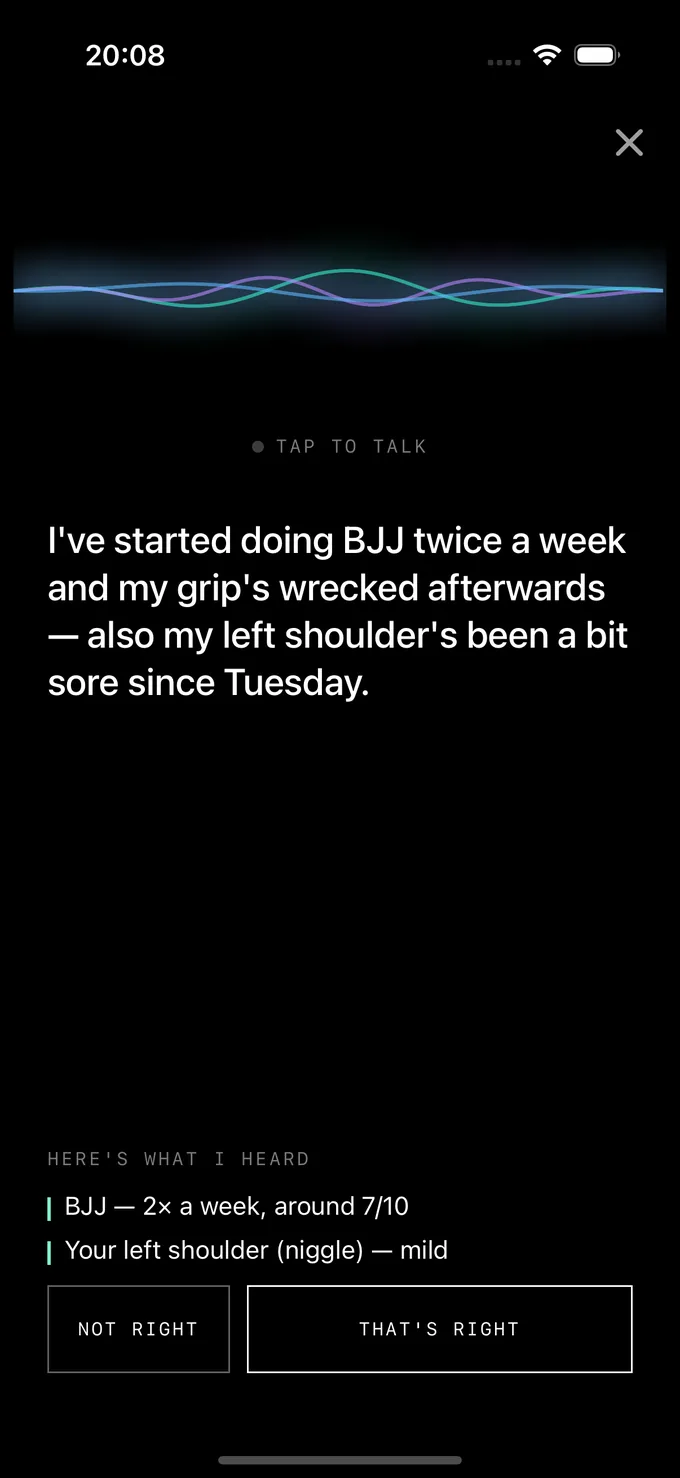
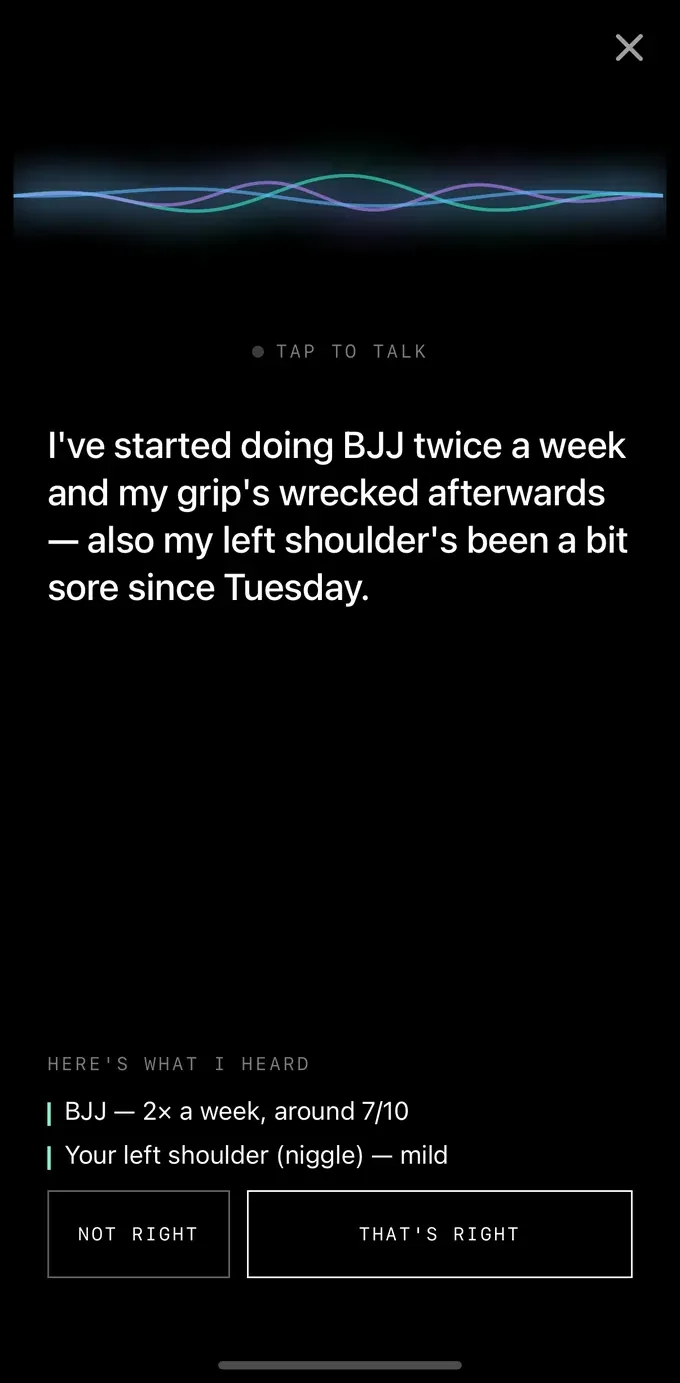
Apply Granite's world-class pass (agent findings, applied directly)
Same recovery pattern as IKARAO: the agent's file edits were lost to the
worktree deletion, but it left a replayable pipeline.py with every crop
measured, not eyeballed. Ran it against the real native app at
/Users/da/Prgrm and applied the results.

- Fig 01 (weekly review) was displayed at 0.81x the pixels a 2x screen
  needs -- a 680px source stretched past its native size. Replaced with
  a native 1320px capture from the shipping app's own screenshot set.
- Fig 02 had a real bug, not a quality issue: its caption said "the same
  screen at reading distance" while the image showed a crop of the
  Programme screen, not the Weekly Review above it -- an evidenced claim
  that was false. New crop is a measured detail of the deload card from
  the SAME review screen (borders found at x 48-1271, y 1156-1429), so
  the caption is now true, and it surfaces the real 40% rule directly.
- All seven remaining phone screenshots had their OS status bar cropped
  at one measured line (y=95 of 680x1478 -> 680x1383), which incidentally
  fixed two more real defects the agent traced to the same stale
  captures: a "◀ Frame" breadcrumb bleeding into two figures, and six
  different mismatched wall-clock times across one supposed session.
- Fixed a wrong count: the glyph sheet claimed "nine for the equipment"
  against ten actual icons in that category (recounted directly from
  the markup: Movement 12, Goal 5, Equipment 10, Level 3, Action 7,
  Coach 8 = 45).
[…]

diff --git a/work-granite.html b/work-granite.html
@@ -162,7 +162,7 @@ body.cursor-on,body.cursor-on a,body.cursor-on button,body.cursor-on summary{cur
 .colophon span{color:var(--paper);}
 .pfig{margin-top:clamp(40px,6vw,72px);background:var(--s1);border:1px solid var(--line);padding:clamp(24px,4vw,48px);display:grid;grid-template-columns:auto 1fr;gap:clamp(26px,5vw,60px);align-items:center;}
 @media(max-width:680px){.pfig{grid-template-columns:1fr;gap:26px;}}
-.device{position:relative;width:min(248px,58vw);aspect-ratio:1206/2622;border-radius:26px;overflow:hidden;background:#000;border:1px solid var(--line2);box-shadow:0 30px 80px -14px rgba(0,0,0,.62),0 6px 16px -4px rgba(0,0,0,.5);justify-self:start;}
+.device{position:relative;width:min(248px,58vw);aspect-ratio:680/1383;border-radius:26px;overflow:hidden;background:#000;border:1px solid var(--line2);box-shadow:0 30px 80px -14px rgba(0,0,0,.62),0 6px 16px -4px rgba(0,0,0,.5);justify-self:start;}
 .device::after{content:"";position:absolute;inset:0;border-radius:inherit;box-shadow:inset 0 1.5px 0 rgba(255,255,255,.16),inset 0 0 0 1px rgba(255,255,255,.045);pointer-events:none;z-index:3;}
 .device img{position:absolute;inset:0;width:100%;height:100%;object-fit:cover;display:block;}
 .device .d{opacity:0;transition:opacity .9s var(--e1);}
@@ -442,11 +442,11 @@ body.cursor-on,body.cursor-on a,body.cursor-on button,body.cursor-on summary{cur
     <div>
       <div class="block reveal"><p class="csintro">Granite is a strength coach for athletes whose sport isn&rsquo;t lifting, built to run entirely on your phone. Not a plan you follow, but an engine that reasons &mdash; writing your lifting around what you actually did to your body that week, and rewriting it as things change. It runs on fixed rules, not guesswork, and it stays on-device: every decision it makes can be traced, tested, and trusted. The engine has since outgrown the app &mdash; it now also runs <a href="work-kaido.html">Kaido Health</a>, a rehab platform for clinics with its own case study.</p></div>
       <div class="stakes reveal"><div class="slabel">The problem</div><div class="sl">A plan you cannot follow is worth nothing.</div><div class="rungs"><div class="rung"><b>The week moves</b><span class="fig">Life first</span><span>Work, sleep, travel, a niggle. The week you planned is rarely the week you get.</span></div><div class="rung"><b>So the plan breaks</b><span class="fig">Miss two</span><span>Fixed programmes have no answer for a missed session, so people improvise or stop.</span></div><div class="rung"><b>And nobody explains</b><span class="fig">No reason</span><span>Apps change your numbers without saying why, so there is nothing to trust or argue with.</span></div></div><p class="mech">One mechanism underneath all three: training adapts to the person, or the person quietly stops training.</p></div>
-      <div class="block reveal"><div class="pfig lead"><div class="device" style="aspect-ratio:1360/1740"><img src="media/shots/g-review.webp" alt="Granite — the weekly rewrite, with the reasoning shown" loading="lazy" width="1360" height="1740"></div><div class="pcap"><span class="pn">Fig. 01 &middot; Granite &middot; the weekly rewrite</span><span class="pd">Miss a few sessions, and it eases the week back &mdash; lighter, shorter, still complete &mdash; so you keep training instead of quitting, and don&rsquo;t get hurt trying to catch up to where the plan says you should be.</span></div></div><div class="pdetail reveal"><img src="media/shots/g-detail.webp" alt="Granite — a closer look: Barbell Row's old weight struck through, the new heavier weight next to it" loading="lazy" width="680" height="200"><div class="pcap"><span class="pn">Fig. 02 &middot; Granite &middot; the decision, closer</span><span class="pd">The same screen at reading distance. Every change is a decision you can trace back &mdash; the old number struck through, the new one next to it &mdash; because a coach you can&rsquo;t interrogate is just a spreadsheet.</span></div></div></div>
+      <div class="block reveal"><div class="pfig lead"><div class="device" style="aspect-ratio:1120/2276"><img src="media/shots/g-review.webp" alt="Granite — the weekly rewrite, with the reasoning shown, native resolution" loading="lazy" width="1120" height="2276"></div><div class="pcap"><span class="pn">Fig. 01 &middot; Granite &middot; the weekly rewrite</span><span class="pd">Miss a few sessions, and it eases the week back &mdash; lighter, shorter, still complete &mdash; so you keep training instead of quitting, and don&rsquo;t get hurt trying to catch up to where the plan says you should be.</span></div></div><div class="pdetail reveal"><img src="media/shots/g-detail.webp" alt="Granite — the deload card, closer: two missed sessions, volume cut 40%, loads held near working weight" loading="lazy" width="1260" height="392"><div class="pcap"><span class="pn">Fig. 02 &middot; Granite &middot; the decision, closer</span><span class="pd">The same review, closer. The card names the exact rule that fired &mdash; two sessions missed, volume down 40%, no top sets &mdash; because a coach you can&rsquo;t interrogate is just a spreadsheet.</span></div></div></div>
       <div class="aud reveal"><div class="who"><h3><span class="b">1</span>For the person training</h3><p>You do not need more discipline, you need a week that survives contact with your life. <em>Granite rewrites it and tells you what changed.</em></p></div><div class="who"><h3><span class="b">2</span>For the people who prescribe</h3><p>Coaches and clinicians cannot stand behind a black box that will not show its reasoning. <em>An engine that follows fixed rules can be inspected, tested and argued with &mdash; which is why it now also runs <a href="work-kaido.html">Kaido Health</a>, in clinics.</em></p></div></div>
-      <div class="block reveal"><h2>A coach, not a plan</h2><p>Most training apps hand you a fixed plan and hope you follow it. Granite reasons instead &mdash; taking your goals, the days you actually have, your injuries, and the load you carry off the platform &mdash; and builds a week that fits your real life.</p><p>When something changes it rewrites, and tells you why.</p><div class="pfig pair"><div class="duo"><figure><div class="device"><img src="media/shots/g-coach.webp" alt="Granite — telling the coach what changed this week" loading="lazy" width="680" height="1478"></div><figcaption>You say this</figcaption></figure><figure><div class="device"><img src="media/shots/g-week-after.webp" alt="Granite — the same week after the note: Face Pull swapped for Band Pull-apart, External Rotation added" loading="lazy" width="680" height="1478"></div><figcaption>The plan changes</figcaption></figure></div><div class="pcap"><span class="pn">Fig. 03 &middot; Granite &middot; say this, the plan changes</span><span class="pd">One sentence about a sore shoulder, and the week changes around it &mdash; the exercise that would aggravate it swapped out, protective work added in. You keep training through the niggle instead of stopping, and nothing has to be re-entered by hand.</span></div></div></div>
-      <div class="block reveal"><h2>The engine is the product</h2><p>Granite runs on fixed coaching rules, not AI guesswork. Every plan is consistent, every decision traceable, and the whole system testable against real coaching principles rather than hoping a black box got it right.</p><p>Accountable intelligence beats impressive intelligence when it&rsquo;s your body on the line.</p><div class="pfig pair"><div class="duo"><figure><div class="device"><img src="media/shots/g-session.webp" alt="Granite — a session in progress, with the reason for today and pain capture" loading="lazy" width="680" height="1478"></div><figcaption>Today&rsquo;s set</figcaption></figure><figure><div class="device"><img src="media/shots/g-programme-timeline.webp" alt="Granite — the 12-week periodised plan, build phases and deloads laid out on a timeline" loading="lazy" width="680" height="1478"></div><figcaption>The 12-week arc</figcaption></figure></div><div class="pcap"><span class="pn">Fig. 04 &middot; Granite &middot; reasoning at every timescale</span><span class="pd">Every session opens with why it exists today, inside a 12-week arc that builds and eases off on its own schedule &mdash; so you&rsquo;re always working toward something, instead of guessing what to do next or grinding until you break.</span></div></div></div>
-      <div class="block reveal"><h2>On-device by decision</h2><p>Running locally was the harder path, and it made the product sharper: an engine that can&rsquo;t lean on a server has to do its thinking right there, the instant you need it.</p><p>That constraint is the craft. Spotting a plateau, checking a week&rsquo;s volume against the evidence &mdash; analysis most apps would phone home for &mdash; happens instantly.</p><div class="pfig pair"><div class="duo"><figure><div class="device"><img src="media/shots/g-progress-insights.webp" alt="Granite — plateau detection: Face Pull flagged flat for a few sessions, with a reason and a fix" loading="lazy" width="680" height="1478"></div><figcaption>It notices a plateau</figcaption></figure><figure><div class="device"><img src="media/shots/g-progress-volume.webp" alt="Granite — weekly training volume per muscle group, checked against an evidence-based range" loading="lazy" width="680" height="1478"></div><figcaption>And checks the volume</figcaption></figure></div><div class="pcap"><span class="pn">Fig. 05 &middot; Granite &middot; reading the whole picture, on-device</span><span class="pd">It catches a plateau before you&rsquo;d notice it yourself, and makes sure no muscle group is quietly under-trained &mdash; so a stall gets fixed in week one, not month three of wondering why you&rsquo;ve stopped improving.</span></div></div></div>
+      <div class="block reveal"><h2>A coach, not a plan</h2><p>Most training apps hand you a fixed plan and hope you follow it. Granite reasons instead &mdash; taking your goals, the days you actually have, your injuries, and the load you carry off the platform &mdash; and builds a week that fits your real life.</p><p>When something changes it rewrites, and tells you why.</p><div class="pfig pair"><div class="duo"><figure><div class="device"><img src="media/shots/g-coach.webp" alt="Granite — telling the coach what changed this week" loading="lazy" width="680" height="1383"></div><figcaption>You say this</figcaption></figure><figure><div class="device"><img src="media/shots/g-week-after.webp" alt="Granite — the same week after the note: Face Pull swapped for Band Pull-apart, External Rotation added" loading="lazy" width="680" height="1383"></div><figcaption>The plan changes</figcaption></figure></div><div class="pcap"><span class="pn">Fig. 03 &middot; Granite &middot; say this, the plan changes</span><span class="pd">One sentence about a sore shoulder, and the week changes around it &mdash; the exercise that would aggravate it swapped out, protective work added in. You keep training through the niggle instead of stopping, and nothing has to be re-entered by hand.</span></div></div></div>
+      <div class="block reveal"><h2>The engine is the product</h2><p>Granite runs on fixed coaching rules, not AI guesswork. Every plan is consistent, every decision traceable, and the whole system testable against real coaching principles rather than hoping a black box got it right.</p><p>Accountable intelligence beats impressive intelligence when it&rsquo;s your body on the line.</p><div class="pfig pair"><div class="duo"><figure><div class="device"><img src="media/shots/g-session.webp" alt="Granite — a session in progress, with the reason for today and pain capture" loading="lazy" width="680" height="1383"></div><figcaption>Today&rsquo;s set</figcaption></figure><figure><div class="device"><img src="media/shots/g-programme-timeline.webp" alt="Granite — the 12-week periodised plan, build phases and deloads laid out on a timeline" loading="lazy" width="680" height="1383"></div><figcaption>The 12-week arc</figcaption></figure></div><div class="pcap"><span class="pn">Fig. 04 &middot; Granite &middot; reasoning at every timescale</span><span class="pd">Every session opens with why it exists today, inside a 12-week arc that builds and eases off on its own schedule &mdash; so you&rsquo;re always working toward something, instead of guessing what to do next or grinding until you break.</span></div></div></div>
+      <div class="block reveal"><h2>On-device by decision</h2><p>Running locally was the harder path, and it made the product sharper: an engine that can&rsquo;t lean on a server has to do its thinking right there, the instant you need it.</p><p>That constraint is the craft. Spotting a plateau, checking a week&rsquo;s volume against the evidence &mdash; analysis most apps would phone home for &mdash; happens instantly.</p><div class="pfig pair"><div class="duo"><figure><div class="device"><img src="media/shots/g-progress-insights.webp" alt="Granite — plateau detection: Face Pull flagged flat for a few sessions, with a reason and a fix" loading="lazy" width="680" height="1383"></div><figcaption>It notices a plateau</figcaption></figure><figure><div class="device"><img src="media/shots/g-progress-volume.webp" alt="Granite — weekly training volume per muscle group, checked against an evidence-based range" loading="lazy" width="680" height="1383"></div><figcaption>And checks the volume</figcaption></figure></div><div class="pcap"><span class="pn">Fig. 05 &middot; Granite &middot; reading the whole picture, on-device</span><span class="pd">It catches a plateau before you&rsquo;d notice it yourself, and makes sure no muscle group is quietly under-trained &mdash; so a stall gets fixed in week one, not month three of wondering why you&rsquo;ve stopped improving.</span></div></div></div>
       <div class="cfilm reveal">
       <div><span class="cfl">Art direction</span>
         <p class="cfyr">Made before the app existed.</p>
@@ -454,7 +454,7 @@ body.cursor-on,body.cursor-on a,body.cursor-on button,body.cursor-on summary{cur
       <div class="cfv"><video muted loop autoplay playsinline preload="none" aria-hidden="true"><source src="media/granite-concept.mp4" type="video/mp4"></video><span class="cfnote">Concept film &middot; not product footage</span></div>
     </div>
 
-    <div class="glyphsheet reveal"><div class="gcat"><span class="gcatlabel">Movement</span><div class="ggrid"><svg viewBox="0 0 72 72" class="glyph"><line x1="36" y1="54" x2="36" y2="14" class="gl-faint" stroke-dasharray="2,3"/><line x1="36" y1="54" x2="36" y2="32" class="gl-neon"/><circle cx="36" cy="32" r="2.6" class="gl-neon fill"/><line x1="16" y1="54" x2="56" y2="54" class="gl-fg"/></svg><svg viewBox="0 0 72 72" class="glyph"><line x1="26" y1="30" x2="26" y2="10" class="gl-faint" stroke-dasharray="2,3"/><line x1="26" y1="30" x2="52" y2="16" class="gl-neon"/><circle cx="52" cy="16" r="2.6" class="gl-neon fill"/><circle cx="26" cy="30" r="2" class="gl-fg fill"/><line x1="26" y1="30" x2="26" y2="54" class="gl-fg"/><line x1="16" y1="54" x2="56" y2="54" class="gl-fg"/></svg><svg viewBox="0 0 72 72" class="glyph"><rect x="10" y="32" width="8" height="8" class="gl-fg fill"/><line x1="14" y1="36" x2="34" y2="36" class="gl-faint"/><line x1="34" y1="36" x2="60" y2="36" class="gl-neon"/><circle cx="60" cy="36" r="2.6" class="gl-neon fill"/></svg><svg viewBox="0 0 72 72" class="glyph"><rect x="32" y="54" width="8" height="8" class="gl-fg fill"/><line x1="36" y1="58" x2="36" y2="38" class="gl-faint"/><line x1="36" y1="38" x2="36" y2="12" class="gl-neon"/><circle cx="36" cy="12" r="2.6" class="gl-neon fill"/></svg><svg viewBox="0 0 72 72" class="glyph"><rect x="54" y="32" width="8" height="8" class="gl-fg fill"/><line x1="38" y1="36" x2="12" y2="36" class="gl-faint"/><line x1="58" y1="36" x2="38" y2="36" class="gl-neon"/><circle cx="12" cy="36" r="2.2" class="gl-faint fill"/></svg><svg viewBox="0 0 72 72" class="glyph"><rect x="32" y="10" width="8" height="8" class="gl-fg fill"/><line x1="36" y1="34" x2="36" y2="58" class="gl-faint"/><line x1="36" y1="14" x2="36" y2="34" class="gl-neon"/><circle cx="36" cy="58" r="2.2" class="gl-faint fill"/></svg><svg viewBox="0 0 72 72" class="glyph"><line x1="20" y1="54" x2="20" y2="18" class="gl-faint" stroke-dasharray="2,3"/><line x1="46" y1="54" x2="46" y2="30" class="gl-neon"/><circle cx="46" cy="30" r="2.6" class="gl-neon fill"/><line x1="12" y1="54" x2="58" y2="54" class="gl-fg"/></svg><svg viewBox="0 0 72 72" class="glyph"><line x1="36" y1="26" x2="36" y2="54" class="gl-faint" stroke-dasharray="2,3"/><line x1="36" y1="26" x2="16" y2="44" class="gl-neon"/><circle cx="16" cy="44" r="2.6" class="gl-neon fill"/><circle cx="36" cy="26" r="2" class="gl-fg fill"/></svg><svg viewBox="0 0 72 72" class="glyph"><line x1="36" y1="26" x2="16" y2="44" class="gl-faint" stroke-dasharray="2,3"/><line x1="36" y1="26" x2="40" y2="54" class="gl-neon"/><circle cx="40" cy="54" r="2.6" class="gl-neon fill"/><circle cx="36" cy="26" r="2" class="gl-fg fill"/></svg><svg viewBox="0 0 72 72" class="glyph"><line x1="36" y1="54" x2="36" y2="20" class="gl-fg"/><line x1="16" y1="54" x2="56" y2="54" class="gl-faint" stroke-dasharray="2,3"/><line x1="16" y1="44" x2="56" y2="44" class="gl-neon"/><circle cx="56" cy="44" r="2.6" class="gl-neon fill"/></svg><svg viewBox="0 0 72 72" class="glyph"><line x1="36" y1="12" x2="36" y2="60" class="gl-neon"/><line x1="14" y1="30" x2="30" y2="34" class="gl-faint"/><line x1="58" y1="42" x2="42" y2="38" class="gl-faint"/><circle cx="36" cy="12" r="2" class="gl-fg fill"/></svg><svg viewBox="0 0 72 72" class="glyph"><line x1="30" y1="26" x2="30" y2="48" class="gl-fg"/><line x1="30" y1="26" x2="46" y2="22" class="gl-faint" stroke-dasharray="2,3"/><line x1="30" y1="26" x2="48" y2="34" class="gl-neon"/><circle cx="48" cy="34" r="2.4" class="gl-neon fill"/><circle cx="30" cy="26" r="2" class="gl-fg fill"/></svg></div></div><div class="gcat"><span class="gcatlabel">Goal</span><div class="ggrid"><svg viewBox="0 0 72 72" class="glyph"><line x1="36" y1="54" x2="36" y2="34" class="gl-faint" stroke-dasharray="2,3"/><line x1="36" y1="54" x2="36" y2="14" class="gl-neon"/><circle cx="36" cy="14" r="2.6" class="gl-neon fill"/><line x1="16" y1="54" x2="56" y2="54" class="gl-fg"/></svg><svg viewBox="0 0 72 72" class="glyph"><line x1="36" y1="36" x2="56.0" y2="36.0" class="gl-neon"/><line x1="36" y1="36" x2="46.0" y2="53.32" class="gl-neon"/><line x1="36" y1="36" x2="26.0" y2="53.32" class="gl-neon"/><line x1="36" y1="36" x2="16.0" y2="36.0" class="gl-neon"/><line x1="36" y1="36" x2="26.0" y2="18.68" class="gl-neon"/><line x1="36" y1="36" x2="46.0" y2="18.68" class="gl-neon"/><circle cx="36" cy="36" r="3" class="gl-neon fill"/></svg><svg viewBox="0 0 72 72" class="glyph"><circle cx="20" cy="44" r="2" class="gl-faint fill"/><circle cx="46" cy="32" r="10" class="gl-neon fill"/></svg><svg viewBox="0 0 72 72" class="glyph"><polyline points="36,58 30,38 36,14" class="gl-neon"/><line x1="52" y1="30" x2="32" y2="38" class="gl-faint"/><circle cx="36" cy="14" r="2.4" class="gl-neon fill"/><circle cx="36" cy="58" r="2" class="gl-fg fill"/></svg><svg viewBox="0 0 72 72" class="glyph"><polyline points="8,40 18,40 24,26 30,50 36,30 42,46 48,34 54,40 64,40" class="gl-neon"/><circle cx="64" cy="40" r="2.4" class="gl-neon fill"/></svg></div></div><div class="gcat"><span class="gcatlabel">Equipment</span><div class="ggrid"><svg viewBox="0 0 72 72" class="glyph"><circle cx="20.0" cy="26.0" r="3" class="gl-faint fill"/><circle cx="36.0" cy="26.0" r="3" class="gl-neon fill"/><circle cx="52.0" cy="26.0" r="3" class="gl-faint fill"/><circle cx="20.0" cy="46.0" r="3" class="gl-faint fill"/><circle cx="36.0" cy="46.0" r="3" class="gl-faint fill"/><circle cx="52.0" cy="46.0" r="3" class="gl-faint fill"/></svg><svg viewBox="0 0 72 72" class="glyph"><line x1="10" y1="36" x2="62" y2="36" class="gl-neon"/><circle cx="10" cy="36" r="3.2" class="gl-neon fill"/><circle cx="62" cy="36" r="3.2" class="gl-neon fill"/></svg><svg viewBox="0 0 72 72" class="glyph"><line x1="26" y1="36" x2="46" y2="36" class="gl-neon"/><circle cx="22" cy="36" r="6" class="gl-neon fill"/><circle cx="50" cy="36" r="6" class="gl-neon fill"/></svg><svg viewBox="0 0 72 72" class="glyph"><rect x="16" y="20" width="24" height="24" class="gl-faint stroke-only"/><rect x="30" y="34" width="24" height="24" class="gl-neon stroke-only"/></svg><svg viewBox="0 0 72 72" class="glyph"><circle cx="36" cy="42" r="10" class="gl-neon stroke-only"/><circle cx="36" cy="24" r="6" class="gl-fg stroke-only"/></svg><svg viewBox="0 0 72 72" class="glyph"><line x1="14" y1="52" x2="38" y2="52" class="gl-neon"/><line x1="38" y1="52" x2="36" y2="40" class="gl-neon"/><line x1="36" y1="40" x2="58" y2="22" class="gl-fg"/><line x1="18" y1="52" x2="18" y2="56" class="gl-faint"/></svg><svg viewBox="0 0 72 72" class="glyph"><polyline points="10,36 12.17,39.06 14.33,41.66 16.5,43.39 18.67,44.0 20.83,43.39 23.0,41.66 25.17,39.06 27.33,36.0 29.5,32.94 31.67,30.34 33.83,28.61 36.0,28.0 38.17,28.61 40.33,30.34 42.5,32.94 44.67,36.0 46.83,39.06 49.0,41.66 51.17,43.39 53.33,44.0 55.5,43.39 57.67,41.66 59.83,39.06 62.0,36.0" class="gl-neon"/></svg><svg viewBox="0 0 72 72" class="glyph"><line x1="14" y1="18" x2="58" y2="18" class="gl-neon"/><line x1="36" y1="18" x2="36" y2="40" class="gl-fg"/><circle cx="36" cy="46" r="4" class="gl-faint fill"/></svg><svg viewBox="0 0 72 72" class="glyph"><circle cx="36" cy="16" r="4" class="gl-neon fill"/><line x1="36" y1="22" x2="36" y2="42" class="gl-neon"/><line x1="36" y1="42" x2="26" y2="58" class="gl-neon"/><line x1="36" y1="42" x2="46" y2="58" class="gl-neon"/></svg><svg viewBox="0 0 72 72" class="glyph"><line x1="20" y1="14" x2="52" y2="14" class="gl-fg"/><line x1="28.0" y1="14" x2="28.0" y2="32" class="gl-faint"/><circle cx="28.0" cy="40" r="5" class="gl-neon stroke-only"/><line x1="44.0" y1="14" x2="44.0" y2="32" class="gl-faint"/><circle cx="44.0" cy="40" r="5" class="gl-neon stroke-only"/></svg></div></div><div class="gcat"><span class="gcatlabel">Level</span><div class="ggrid"><svg viewBox="0 0 72 72" class="glyph"><line x1="26.0" y1="54" x2="26.0" y2="38.0" class="gl-neon"/><line x1="38.0" y1="54" x2="38.0" y2="28.0" class="gl-faint"/><line x1="50.0" y1="54" x2="50.0" y2="16.0" class="gl-faint"/><line x1="16" y1="54" x2="56" y2="54" class="gl-fg"/></svg><svg viewBox="0 0 72 72" class="glyph"><line x1="26.0" y1="54" x2="26.0" y2="38.0" class="gl-neon"/><line x1="38.0" y1="54" x2="38.0" y2="28.0" class="gl-neon"/><line x1="50.0" y1="54" x2="50.0" y2="16.0" class="gl-faint"/><line x1="16" y1="54" x2="56" y2="54" class="gl-fg"/></svg><svg viewBox="0 0 72 72" class="glyph"><line x1="26.0" y1="54" x2="26.0" y2="38.0" class="gl-neon"/><line x1="38.0" y1="54" x2="38.0" y2="28.0" class="gl-neon"/><line x1="50.0" y1="54" x2="50.0" y2="16.0" class="gl-neon"/><line x1="16" y1="54" x2="56" y2="54" class="gl-fg"/></svg></div></div><div class="gcat"><span class="gcatlabel">Action</span><div class="ggrid"><svg viewBox="0 0 72 72" class="glyph"><circle cx="36" cy="36" r="18" class="gl-fg stroke-only"/><line x1="36" y1="36" x2="36" y2="22" class="gl-neon"/><line x1="36" y1="36" x2="46" y2="36" class="gl-fg"/></svg><svg viewBox="0 0 72 72" class="glyph"><line x1="23.0" y1="22.0" x2="49.0" y2="22.0" class="gl-neon"/><line x1="27.0" y1="34.0" x2="45.0" y2="34.0" class="gl-faint"/><line x1="31.0" y1="46.0" x2="41.0" y2="46.0" class="gl-faint"/></svg><svg viewBox="0 0 72 72" class="glyph"><circle cx="36" cy="20" r="3" class="gl-neon fill"/><line x1="36" y1="30" x2="36" y2="52" class="gl-fg"/></svg><svg viewBox="0 0 72 72" class="glyph"><line x1="24.0" y1="14.0" x2="14.0" y2="14.0" class="gl-neon"/><line x1="14.0" y1="14.0" x2="14.0" y2="24.0" class="gl-neon"/><line x1="48.0" y1="14.0" x2="58.0" y2="14.0" class="gl-neon"/><line x1="58.0" y1="14.0" x2="58.0" y2="24.0" class="gl-neon"/><line x1="24.0" y1="58.0" x2="14.0" y2="58.0" class="gl-neon"/><line x1="14.0" y1="58.0" x2="14.0" y2="48.0" class="gl-neon"/><line x1="48.0" y1="58.0" x2="58.0" y2="58.0" class="gl-neon"/><line x1="58.0" y1="58.0" x2="58.0" y2="48.0" class="gl-neon"/></svg><svg viewBox="0 0 72 72" class="glyph"><line x1="18" y1="26" x2="54" y2="26" class="gl-neon"/><polyline points="48,20 54,26 48,32" class="gl-neon"/><line x1="54" y1="46" x2="18" y2="46" class="gl-fg"/><polyline points="24,40 18,46 24,52" class="gl-fg"/></svg><svg viewBox="0 0 72 72" class="glyph"><line x1="22" y1="22" x2="50" y2="50" class="gl-neon"/><line x1="50" y1="22" x2="22" y2="50" class="gl-neon"/></svg><svg viewBox="0 0 72 72" class="glyph"><path d="M 48.26 25.72 A 16 16 0 1 1 23.74 25.72" class="gl-neon stroke-only-path"/><polyline points="30,18 20,20 24,30" class="gl-neon"/></svg></div></div><div class="gcat"><span class="gcatlabel">Coach</span><div class="ggrid"><svg viewBox="0 0 72 72" class="glyph"><line x1="8.0" y1="52" x2="8.0" y2="42" class="gl-faint"/><line x1="13.09" y1="52" x2="13.09" y2="37" class="gl-faint"/><line x1="18.18" y1="52" x2="18.18" y2="32" class="gl-faint"/><line x1="23.27" y1="52" x2="23.27" y2="44" class="gl-faint"/><line x1="28.36" y1="52" x2="28.36" y2="38" class="gl-faint"/><line x1="33.45" y1="52" x2="33.45" y2="32" class="gl-faint"/><line x1="38.55" y1="52" x2="38.55" y2="18" class="gl-neon"/><line x1="38.55" y1="24" x2="38.55" y2="20" class="gl-faint" stroke-dasharray="1.5,2"/><line x1="43.64" y1="52" x2="43.64" y2="40" class="gl-faint"/><line x1="48.73" y1="52" x2="48.73" y2="34" class="gl-faint"/><line x1="53.82" y1="52" x2="53.82" y2="28" class="gl-faint"/><line x1="58.91" y1="52" x2="58.91" y2="22" class="gl-faint"/><line x1="64.0" y1="52" x2="64.0" y2="38" class="gl-faint"/><line x1="6" y1="54" x2="66" y2="54" class="gl-fg"/></svg><svg viewBox="0 0 72 72" class="glyph"><line x1="10" y1="18.0" x2="44" y2="36" class="gl-faint"/><circle cx="10" cy="18.0" r="2.2" class="gl-faint fill"/><line x1="10" y1="36.0" x2="44" y2="36" class="gl-fg"/><circle cx="10" cy="36.0" r="2.2" class="gl-fg fill"/><line x1="10" y1="54.0" x2="44" y2="36" class="gl-faint"/><circle cx="10" cy="54.0" r="2.2" class="gl-faint fill"/><line x1="44" y1="36" x2="64" y2="36" class="gl-neon"/><rect x="40" y="32" width="8" height="8" class="gl-neon fill"/></svg><svg viewBox="0 0 72 72" class="glyph"><line x1="22" y1="10" x2="22" y2="60" class="gl-fg"/><line x1="22" y1="20.0" x2="46" y2="20.0" class="gl-faint"/><circle cx="22" cy="20.0" r="2" class="gl-fg fill"/><circle cx="50" cy="20.0" r="2.4" class="gl-faint fill"/><line x1="22" y1="34.0" x2="46" y2="34.0" class="gl-neon"/><circle cx="22" cy="34.0" r="2" class="gl-fg fill"/><circle cx="50" cy="34.0" r="2.4" class="gl-neon fill"/><line x1="22" y1="48.0" x2="46" y2="48.0" class="gl-faint"/><circle cx="22" cy="48.0" r="2" class="gl-fg fill"/><circle cx="50" cy="48.0" r="2.4" class="gl-faint fill"/></svg><svg viewBox="0 0 72 72" class="glyph"><line x1="16" y1="16.0" x2="46" y2="16.0" class="gl-faint"/><circle cx="10" cy="16.0" r="1.6" class="gl-faint fill"/><line x1="16" y1="29.0" x2="60" y2="29.0" class="gl-faint"/><circle cx="10" cy="29.0" r="1.6" class="gl-faint fill"/><line x1="16" y1="42.0" x2="40" y2="42.0" class="gl-faint"/><circle cx="10" cy="42.0" r="1.6" class="gl-faint fill"/><line x1="16" y1="55.0" x2="56" y2="55.0" class="gl-neon"/><circle cx="10" cy="55.0" r="2.4" class="gl-neon fill"/></svg><svg viewBox="0 0 72 72" class="glyph"><polyline points="6,40 22,40 30,22 38,54 46,32 54,40 66,40" class="gl-neon"/><circle cx="66" cy="40" r="2.8" class="gl-neon fill"/></svg><svg viewBox="0 0 72 72" class="glyph"><polyline points="8,46 38,36 64,20" class="gl-neon"/><circle cx="8" cy="46" r="1.8" class="gl-faint fill"/><circle cx="38" cy="36" r="1.8" class="gl-faint fill"/><circle cx="64" cy="20" r="2.8" class="gl-neon fill"/></svg><svg viewBox="0 0 72 72" class="glyph"><polyline points="8,46 38,36 64,36" class="gl-neon"/><circle cx="8" cy="46" r="1.8" class="gl-faint fill"/><circle cx="38" cy="36" r="1.8" class="gl-faint fill"/><circle cx="64" cy="36" r="2.8" class="gl-neon fill"/></svg><svg viewBox="0 0 72 72" class="glyph"><polyline points="8,46 38,36 64,52" class="gl-neon"/><circle cx="8" cy="46" r="1.8" class="gl-faint fill"/><circle cx="38" cy="36" r="1.8" class="gl-faint fill"/><circle cx="64" cy="52" r="2.8" class="gl-neon fill"/></svg></div></div><div class="pcap"><span class="pn">Branding detail &middot; Granite &middot; the glyph set</span><span class="pd">Forty-five icons, drawn for this product rather than pulled from a system library: twelve for how a body moves &mdash; squat, hinge, push, pull &mdash; five for what you&rsquo;re training toward, nine for the equipment you tell it you have, three for experience level, seven for the small actions inside a session, and the rest for how the coach explains itself. Every one is built from the same handful of shapes &mdash; a dot, a line, a ghost of where something used to be &mdash; so the system reads as one language, not a shelf of clip art.</span></div></div>
+    <div class="glyphsheet reveal"><div class="gcat"><span class="gcatlabel">Movement</span><div class="ggrid"><svg viewBox="0 0 72 72" class="glyph"><line x1="36" y1="54" x2="36" y2="14" class="gl-faint" stroke-dasharray="2,3"/><line x1="36" y1="54" x2="36" y2="32" class="gl-neon"/><circle cx="36" cy="32" r="2.6" class="gl-neon fill"/><line x1="16" y1="54" x2="56" y2="54" class="gl-fg"/></svg><svg viewBox="0 0 72 72" class="glyph"><line x1="26" y1="30" x2="26" y2="10" class="gl-faint" stroke-dasharray="2,3"/><line x1="26" y1="30" x2="52" y2="16" class="gl-neon"/><circle cx="52" cy="16" r="2.6" class="gl-neon fill"/><circle cx="26" cy="30" r="2" class="gl-fg fill"/><line x1="26" y1="30" x2="26" y2="54" class="gl-fg"/><line x1="16" y1="54" x2="56" y2="54" class="gl-fg"/></svg><svg viewBox="0 0 72 72" class="glyph"><rect x="10" y="32" width="8" height="8" class="gl-fg fill"/><line x1="14" y1="36" x2="34" y2="36" class="gl-faint"/><line x1="34" y1="36" x2="60" y2="36" class="gl-neon"/><circle cx="60" cy="36" r="2.6" class="gl-neon fill"/></svg><svg viewBox="0 0 72 72" class="glyph"><rect x="32" y="54" width="8" height="8" class="gl-fg fill"/><line x1="36" y1="58" x2="36" y2="38" class="gl-faint"/><line x1="36" y1="38" x2="36" y2="12" class="gl-neon"/><circle cx="36" cy="12" r="2.6" class="gl-neon fill"/></svg><svg viewBox="0 0 72 72" class="glyph"><rect x="54" y="32" width="8" height="8" class="gl-fg fill"/><line x1="38" y1="36" x2="12" y2="36" class="gl-faint"/><line x1="58" y1="36" x2="38" y2="36" class="gl-neon"/><circle cx="12" cy="36" r="2.2" class="gl-faint fill"/></svg><svg viewBox="0 0 72 72" class="glyph"><rect x="32" y="10" width="8" height="8" class="gl-fg fill"/><line x1="36" y1="34" x2="36" y2="58" class="gl-faint"/><line x1="36" y1="14" x2="36" y2="34" class="gl-neon"/><circle cx="36" cy="58" r="2.2" class="gl-faint fill"/></svg><svg viewBox="0 0 72 72" class="glyph"><line x1="20" y1="54" x2="20" y2="18" class="gl-faint" stroke-dasharray="2,3"/><line x1="46" y1="54" x2="46" y2="30" class="gl-neon"/><circle cx="46" cy="30" r="2.6" class="gl-neon fill"/><line x1="12" y1="54" x2="58" y2="54" class="gl-fg"/></svg><svg viewBox="0 0 72 72" class="glyph"><line x1="36" y1="26" x2="36" y2="54" class="gl-faint" stroke-dasharray="2,3"/><line x1="36" y1="26" x2="16" y2="44" class="gl-neon"/><circle cx="16" cy="44" r="2.6" class="gl-neon fill"/><circle cx="36" cy="26" r="2" class="gl-fg fill"/></svg><svg viewBox="0 0 72 72" class="glyph"><line x1="36" y1="26" x2="16" y2="44" class="gl-faint" stroke-dasharray="2,3"/><line x1="36" y1="26" x2="40" y2="54" class="gl-neon"/><circle cx="40" cy="54" r="2.6" class="gl-neon fill"/><circle cx="36" cy="26" r="2" class="gl-fg fill"/></svg><svg viewBox="0 0 72 72" class="glyph"><line x1="36" y1="54" x2="36" y2="20" class="gl-fg"/><line x1="16" y1="54" x2="56" y2="54" class="gl-faint" stroke-dasharray="2,3"/><line x1="16" y1="44" x2="56" y2="44" class="gl-neon"/><circle cx="56" cy="44" r="2.6" class="gl-neon fill"/></svg><svg viewBox="0 0 72 72" class="glyph"><line x1="36" y1="12" x2="36" y2="60" class="gl-neon"/><line x1="14" y1="30" x2="30" y2="34" class="gl-faint"/><line x1="58" y1="42" x2="42" y2="38" class="gl-faint"/><circle cx="36" cy="12" r="2" class="gl-fg fill"/></svg><svg viewBox="0 0 72 72" class="glyph"><line x1="30" y1="26" x2="30" y2="48" class="gl-fg"/><line x1="30" y1="26" x2="46" y2="22" class="gl-faint" stroke-dasharray="2,3"/><line x1="30" y1="26" x2="48" y2="34" class="gl-neon"/><circle cx="48" cy="34" r="2.4" class="gl-neon fill"/><circle cx="30" cy="26" r="2" class="gl-fg fill"/></svg></div></div><div class="gcat"><span class="gcatlabel">Goal</span><div class="ggrid"><svg viewBox="0 0 72 72" class="glyph"><line x1="36" y1="54" x2="36" y2="34" class="gl-faint" stroke-dasharray="2,3"/><line x1="36" y1="54" x2="36" y2="14" class="gl-neon"/><circle cx="36" cy="14" r="2.6" class="gl-neon fill"/><line x1="16" y1="54" x2="56" y2="54" class="gl-fg"/></svg><svg viewBox="0 0 72 72" class="glyph"><line x1="36" y1="36" x2="56.0" y2="36.0" class="gl-neon"/><line x1="36" y1="36" x2="46.0" y2="53.32" class="gl-neon"/><line x1="36" y1="36" x2="26.0" y2="53.32" class="gl-neon"/><line x1="36" y1="36" x2="16.0" y2="36.0" class="gl-neon"/><line x1="36" y1="36" x2="26.0" y2="18.68" class="gl-neon"/><line x1="36" y1="36" x2="46.0" y2="18.68" class="gl-neon"/><circle cx="36" cy="36" r="3" class="gl-neon fill"/></svg><svg viewBox="0 0 72 72" class="glyph"><circle cx="20" cy="44" r="2" class="gl-faint fill"/><circle cx="46" cy="32" r="10" class="gl-neon fill"/></svg><svg viewBox="0 0 72 72" class="glyph"><polyline points="36,58 30,38 36,14" class="gl-neon"/><line x1="52" y1="30" x2="32" y2="38" class="gl-faint"/><circle cx="36" cy="14" r="2.4" class="gl-neon fill"/><circle cx="36" cy="58" r="2" class="gl-fg fill"/></svg><svg viewBox="0 0 72 72" class="glyph"><polyline points="8,40 18,40 24,26 30,50 36,30 42,46 48,34 54,40 64,40" class="gl-neon"/><circle cx="64" cy="40" r="2.4" class="gl-neon fill"/></svg></div></div><div class="gcat"><span class="gcatlabel">Equipment</span><div class="ggrid"><svg viewBox="0 0 72 72" class="glyph"><circle cx="20.0" cy="26.0" r="3" class="gl-faint fill"/><circle cx="36.0" cy="26.0" r="3" class="gl-neon fill"/><circle cx="52.0" cy="26.0" r="3" class="gl-faint fill"/><circle cx="20.0" cy="46.0" r="3" class="gl-faint fill"/><circle cx="36.0" cy="46.0" r="3" class="gl-faint fill"/><circle cx="52.0" cy="46.0" r="3" class="gl-faint fill"/></svg><svg viewBox="0 0 72 72" class="glyph"><line x1="10" y1="36" x2="62" y2="36" class="gl-neon"/><circle cx="10" cy="36" r="3.2" class="gl-neon fill"/><circle cx="62" cy="36" r="3.2" class="gl-neon fill"/></svg><svg viewBox="0 0 72 72" class="glyph"><line x1="26" y1="36" x2="46" y2="36" class="gl-neon"/><circle cx="22" cy="36" r="6" class="gl-neon fill"/><circle cx="50" cy="36" r="6" class="gl-neon fill"/></svg><svg viewBox="0 0 72 72" class="glyph"><rect x="16" y="20" width="24" height="24" class="gl-faint stroke-only"/><rect x="30" y="34" width="24" height="24" class="gl-neon stroke-only"/></svg><svg viewBox="0 0 72 72" class="glyph"><circle cx="36" cy="42" r="10" class="gl-neon stroke-only"/><circle cx="36" cy="24" r="6" class="gl-fg stroke-only"/></svg><svg viewBox="0 0 72 72" class="glyph"><line x1="14" y1="52" x2="38" y2="52" class="gl-neon"/><line x1="38" y1="52" x2="36" y2="40" class="gl-neon"/><line x1="36" y1="40" x2="58" y2="22" class="gl-fg"/><line x1="18" y1="52" x2="18" y2="56" class="gl-faint"/></svg><svg viewBox="0 0 72 72" class="glyph"><polyline points="10,36 12.17,39.06 14.33,41.66 16.5,43.39 18.67,44.0 20.83,43.39 23.0,41.66 25.17,39.06 27.33,36.0 29.5,32.94 31.67,30.34 33.83,28.61 36.0,28.0 38.17,28.61 40.33,30.34 42.5,32.94 44.67,36.0 46.83,39.06 49.0,41.66 51.17,43.39 53.33,44.0 55.5,43.39 57.67,41.66 59.83,39.06 62.0,36.0" class="gl-neon"/></svg><svg viewBox="0 0 72 72" class="glyph"><line x1="14" y1="18" x2="58" y2="18" class="gl-neon"/><line x1="36" y1="18" x2="36" y2="40" class="gl-fg"/><circle cx="36" cy="46" r="4" class="gl-faint fill"/></svg><svg viewBox="0 0 72 72" class="glyph"><circle cx="36" cy="16" r="4" class="gl-neon fill"/><line x1="36" y1="22" x2="36" y2="42" class="gl-neon"/><line x1="36" y1="42" x2="26" y2="58" class="gl-neon"/><line x1="36" y1="42" x2="46" y2="58" class="gl-neon"/></svg><svg viewBox="0 0 72 72" class="glyph"><line x1="20" y1="14" x2="52" y2="14" class="gl-fg"/><line x1="28.0" y1="14" x2="28.0" y2="32" class="gl-faint"/><circle cx="28.0" cy="40" r="5" class="gl-neon stroke-only"/><line x1="44.0" y1="14" x2="44.0" y2="32" class="gl-faint"/><circle cx="44.0" cy="40" r="5" class="gl-neon stroke-only"/></svg></div></div><div class="gcat"><span class="gcatlabel">Level</span><div class="ggrid"><svg viewBox="0 0 72 72" class="glyph"><line x1="26.0" y1="54" x2="26.0" y2="38.0" class="gl-neon"/><line x1="38.0" y1="54" x2="38.0" y2="28.0" class="gl-faint"/><line x1="50.0" y1="54" x2="50.0" y2="16.0" class="gl-faint"/><line x1="16" y1="54" x2="56" y2="54" class="gl-fg"/></svg><svg viewBox="0 0 72 72" class="glyph"><line x1="26.0" y1="54" x2="26.0" y2="38.0" class="gl-neon"/><line x1="38.0" y1="54" x2="38.0" y2="28.0" class="gl-neon"/><line x1="50.0" y1="54" x2="50.0" y2="16.0" class="gl-faint"/><line x1="16" y1="54" x2="56" y2="54" class="gl-fg"/></svg><svg viewBox="0 0 72 72" class="glyph"><line x1="26.0" y1="54" x2="26.0" y2="38.0" class="gl-neon"/><line x1="38.0" y1="54" x2="38.0" y2="28.0" class="gl-neon"/><line x1="50.0" y1="54" x2="50.0" y2="16.0" class="gl-neon"/><line x1="16" y1="54" x2="56" y2="54" class="gl-fg"/></svg></div></div><div class="gcat"><span class="gcatlabel">Action</span><div class="ggrid"><svg viewBox="0 0 72 72" class="glyph"><circle cx="36" cy="36" r="18" class="gl-fg stroke-only"/><line x1="36" y1="36" x2="36" y2="22" class="gl-neon"/><line x1="36" y1="36" x2="46" y2="36" class="gl-fg"/></svg><svg viewBox="0 0 72 72" class="glyph"><line x1="23.0" y1="22.0" x2="49.0" y2="22.0" class="gl-neon"/><line x1="27.0" y1="34.0" x2="45.0" y2="34.0" class="gl-faint"/><line x1="31.0" y1="46.0" x2="41.0" y2="46.0" class="gl-faint"/></svg><svg viewBox="0 0 72 72" class="glyph"><circle cx="36" cy="20" r="3" class="gl-neon fill"/><line x1="36" y1="30" x2="36" y2="52" class="gl-fg"/></svg><svg viewBox="0 0 72 72" class="glyph"><line x1="24.0" y1="14.0" x2="14.0" y2="14.0" class="gl-neon"/><line x1="14.0" y1="14.0" x2="14.0" y2="24.0" class="gl-neon"/><line x1="48.0" y1="14.0" x2="58.0" y2="14.0" class="gl-neon"/><line x1="58.0" y1="14.0" x2="58.0" y2="24.0" class="gl-neon"/><line x1="24.0" y1="58.0" x2="14.0" y2="58.0" class="gl-neon"/><line x1="14.0" y1="58.0" x2="14.0" y2="48.0" class="gl-neon"/><line x1="48.0" y1="58.0" x2="58.0" y2="58.0" class="gl-neon"/><line x1="58.0" y1="58.0" x2="58.0" y2="48.0" class="gl-neon"/></svg><svg viewBox="0 0 72 72" class="glyph"><line x1="18" y1="26" x2="54" y2="26" class="gl-neon"/><polyline points="48,20 54,26 48,32" class="gl-neon"/><line x1="54" y1="46" x2="18" y2="46" class="gl-fg"/><polyline points="24,40 18,46 24,52" class="gl-fg"/></svg><svg viewBox="0 0 72 72" class="glyph"><line x1="22" y1="22" x2="50" y2="50" class="gl-neon"/><line x1="50" y1="22" x2="22" y2="50" class="gl-neon"/></svg><svg viewBox="0 0 72 72" class="glyph"><path d="M 48.26 25.72 A 16 16 0 1 1 23.74 25.72" class="gl-neon stroke-only-path"/><polyline points="30,18 20,20 24,30" class="gl-neon"/></svg></div></div><div class="gcat"><span class="gcatlabel">Coach</span><div class="ggrid"><svg viewBox="0 0 72 72" class="glyph"><line x1="8.0" y1="52" x2="8.0" y2="42" class="gl-faint"/><line x1="13.09" y1="52" x2="13.09" y2="37" class="gl-faint"/><line x1="18.18" y1="52" x2="18.18" y2="32" class="gl-faint"/><line x1="23.27" y1="52" x2="23.27" y2="44" class="gl-faint"/><line x1="28.36" y1="52" x2="28.36" y2="38" class="gl-faint"/><line x1="33.45" y1="52" x2="33.45" y2="32" class="gl-faint"/><line x1="38.55" y1="52" x2="38.55" y2="18" class="gl-neon"/><line x1="38.55" y1="24" x2="38.55" y2="20" class="gl-faint" stroke-dasharray="1.5,2"/><line x1="43.64" y1="52" x2="43.64" y2="40" class="gl-faint"/><line x1="48.73" y1="52" x2="48.73" y2="34" class="gl-faint"/><line x1="53.82" y1="52" x2="53.82" y2="28" class="gl-faint"/><line x1="58.91" y1="52" x2="58.91" y2="22" class="gl-faint"/><line x1="64.0" y1="52" x2="64.0" y2="38" class="gl-faint"/><line x1="6" y1="54" x2="66" y2="54" class="gl-fg"/></svg><svg viewBox="0 0 72 72" class="glyph"><line x1="10" y1="18.0" x2="44" y2="36" class="gl-faint"/><circle cx="10" cy="18.0" r="2.2" class="gl-faint fill"/><line x1="10" y1="36.0" x2="44" y2="36" class="gl-fg"/><circle cx="10" cy="36.0" r="2.2" class="gl-fg fill"/><line x1="10" y1="54.0" x2="44" y2="36" class="gl-faint"/><circle cx="10" cy="54.0" r="2.2" class="gl-faint fill"/><line x1="44" y1="36" x2="64" y2="36" class="gl-neon"/><rect x="40" y="32" width="8" height="8" class="gl-neon fill"/></svg><svg viewBox="0 0 72 72" class="glyph"><line x1="22" y1="10" x2="22" y2="60" class="gl-fg"/><line x1="22" y1="20.0" x2="46" y2="20.0" class="gl-faint"/><circle cx="22" cy="20.0" r="2" class="gl-fg fill"/><circle cx="50" cy="20.0" r="2.4" class="gl-faint fill"/><line x1="22" y1="34.0" x2="46" y2="34.0" class="gl-neon"/><circle cx="22" cy="34.0" r="2" class="gl-fg fill"/><circle cx="50" cy="34.0" r="2.4" class="gl-neon fill"/><line x1="22" y1="48.0" x2="46" y2="48.0" class="gl-faint"/><circle cx="22" cy="48.0" r="2" class="gl-fg fill"/><circle cx="50" cy="48.0" r="2.4" class="gl-faint fill"/></svg><svg viewBox="0 0 72 72" class="glyph"><line x1="16" y1="16.0" x2="46" y2="16.0" class="gl-faint"/><circle cx="10" cy="16.0" r="1.6" class="gl-faint fill"/><line x1="16" y1="29.0" x2="60" y2="29.0" class="gl-faint"/><circle cx="10" cy="29.0" r="1.6" class="gl-faint fill"/><line x1="16" y1="42.0" x2="40" y2="42.0" class="gl-faint"/><circle cx="10" cy="42.0" r="1.6" class="gl-faint fill"/><line x1="16" y1="55.0" x2="56" y2="55.0" class="gl-neon"/><circle cx="10" cy="55.0" r="2.4" class="gl-neon fill"/></svg><svg viewBox="0 0 72 72" class="glyph"><polyline points="6,40 22,40 30,22 38,54 46,32 54,40 66,40" class="gl-neon"/><circle cx="66" cy="40" r="2.8" class="gl-neon fill"/></svg><svg viewBox="0 0 72 72" class="glyph"><polyline points="8,46 38,36 64,20" class="gl-neon"/><circle cx="8" cy="46" r="1.8" class="gl-faint fill"/><circle cx="38" cy="36" r="1.8" class="gl-faint fill"/><circle cx="64" cy="20" r="2.8" class="gl-neon fill"/></svg><svg viewBox="0 0 72 72" class="glyph"><polyline points="8,46 38,36 64,36" class="gl-neon"/><circle cx="8" cy="46" r="1.8" class="gl-faint fill"/><circle cx="38" cy="36" r="1.8" class="gl-faint fill"/><circle cx="64" cy="36" r="2.8" class="gl-neon fill"/></svg><svg viewBox="0 0 72 72" class="glyph"><polyline points="8,46 38,36 64,52" class="gl-neon"/><circle cx="8" cy="46" r="1.8" class="gl-faint fill"/><circle cx="38" cy="36" r="1.8" class="gl-faint fill"/><circle cx="64" cy="52" r="2.8" class="gl-neon fill"/></svg></div></div><div class="pcap"><span class="pn">Branding detail &middot; Granite &middot; the glyph set</span><span class="pd">Forty-five icons, drawn for this product rather than pulled from a system library: twelve for how a body moves &mdash; squat, hinge, push, pull &mdash; five for what you&rsquo;re training toward, ten for the equipment you tell it you have, three for experience level, seven for the small actions inside a session, and eight for how the coach explains itself. Every one is built from the same handful of shapes &mdash; a dot, a line, a ghost of where something used to be &mdash; so the system reads as one language, not a shelf of clip art.</span></div></div>
 
     <div class="measured reveal"><div class="mlab">Measured</div><div class="mgrid"><div class="m"><b class="mfig">0</b><span>bytes leave the phone. No account, no cloud &mdash; the privacy is the architecture.</span></div><div class="m"><b class="mfig">12</b><span>weeks per periodised arc, rebuilt every week around what you actually did.</span></div><div class="m"><b class="mfig">2</b><span>products now run on this engine &mdash; it outgrew the app and went into clinics.</span></div></div></div>
 
@@ -467,7 +467,7 @@ body.cursor-on,body.cursor-on a,body.cursor-on button,body.cursor-on summary{cur
         </div>
         <div class="refusal"><span class="rlabel">One we killed</span><p>We almost shipped <b>cloud sync</b> in week three &mdash; it would have made onboarding one tap and the demo look cleaner. We killed it because the moment your training history touches our servers, &ldquo;on-device and accountable&rdquo; stops being an architecture and becomes a marketing line. The harder path was the product.</p></div>
       </div>
-      <p class="horizon"><b>Scope.</b> What is public here is the consumer app. The engine underneath it was built to serve more than one reader &mdash; and those surfaces stay off the site until they ship. The architecture is the asset; publishing how it decides is not.</p>
+      <p class="horizon"><b>Scope.</b> What is shown here is the consumer app. The engine underneath it now also runs a second product, Kaido Health, with its own case study &mdash; the architecture is the asset, and it turned out to serve more than one reader.</p>
       <div class="colophon reveal"><div><b>Stack</b><span>Swift &middot; SwiftUI &middot; on-device</span></div><div><b>Timeline</b><span>2026</span></div><div><b>Constraint</b><span>No cloud. No account. No black box.</span></div></div>
     </div>
   </div></section>
